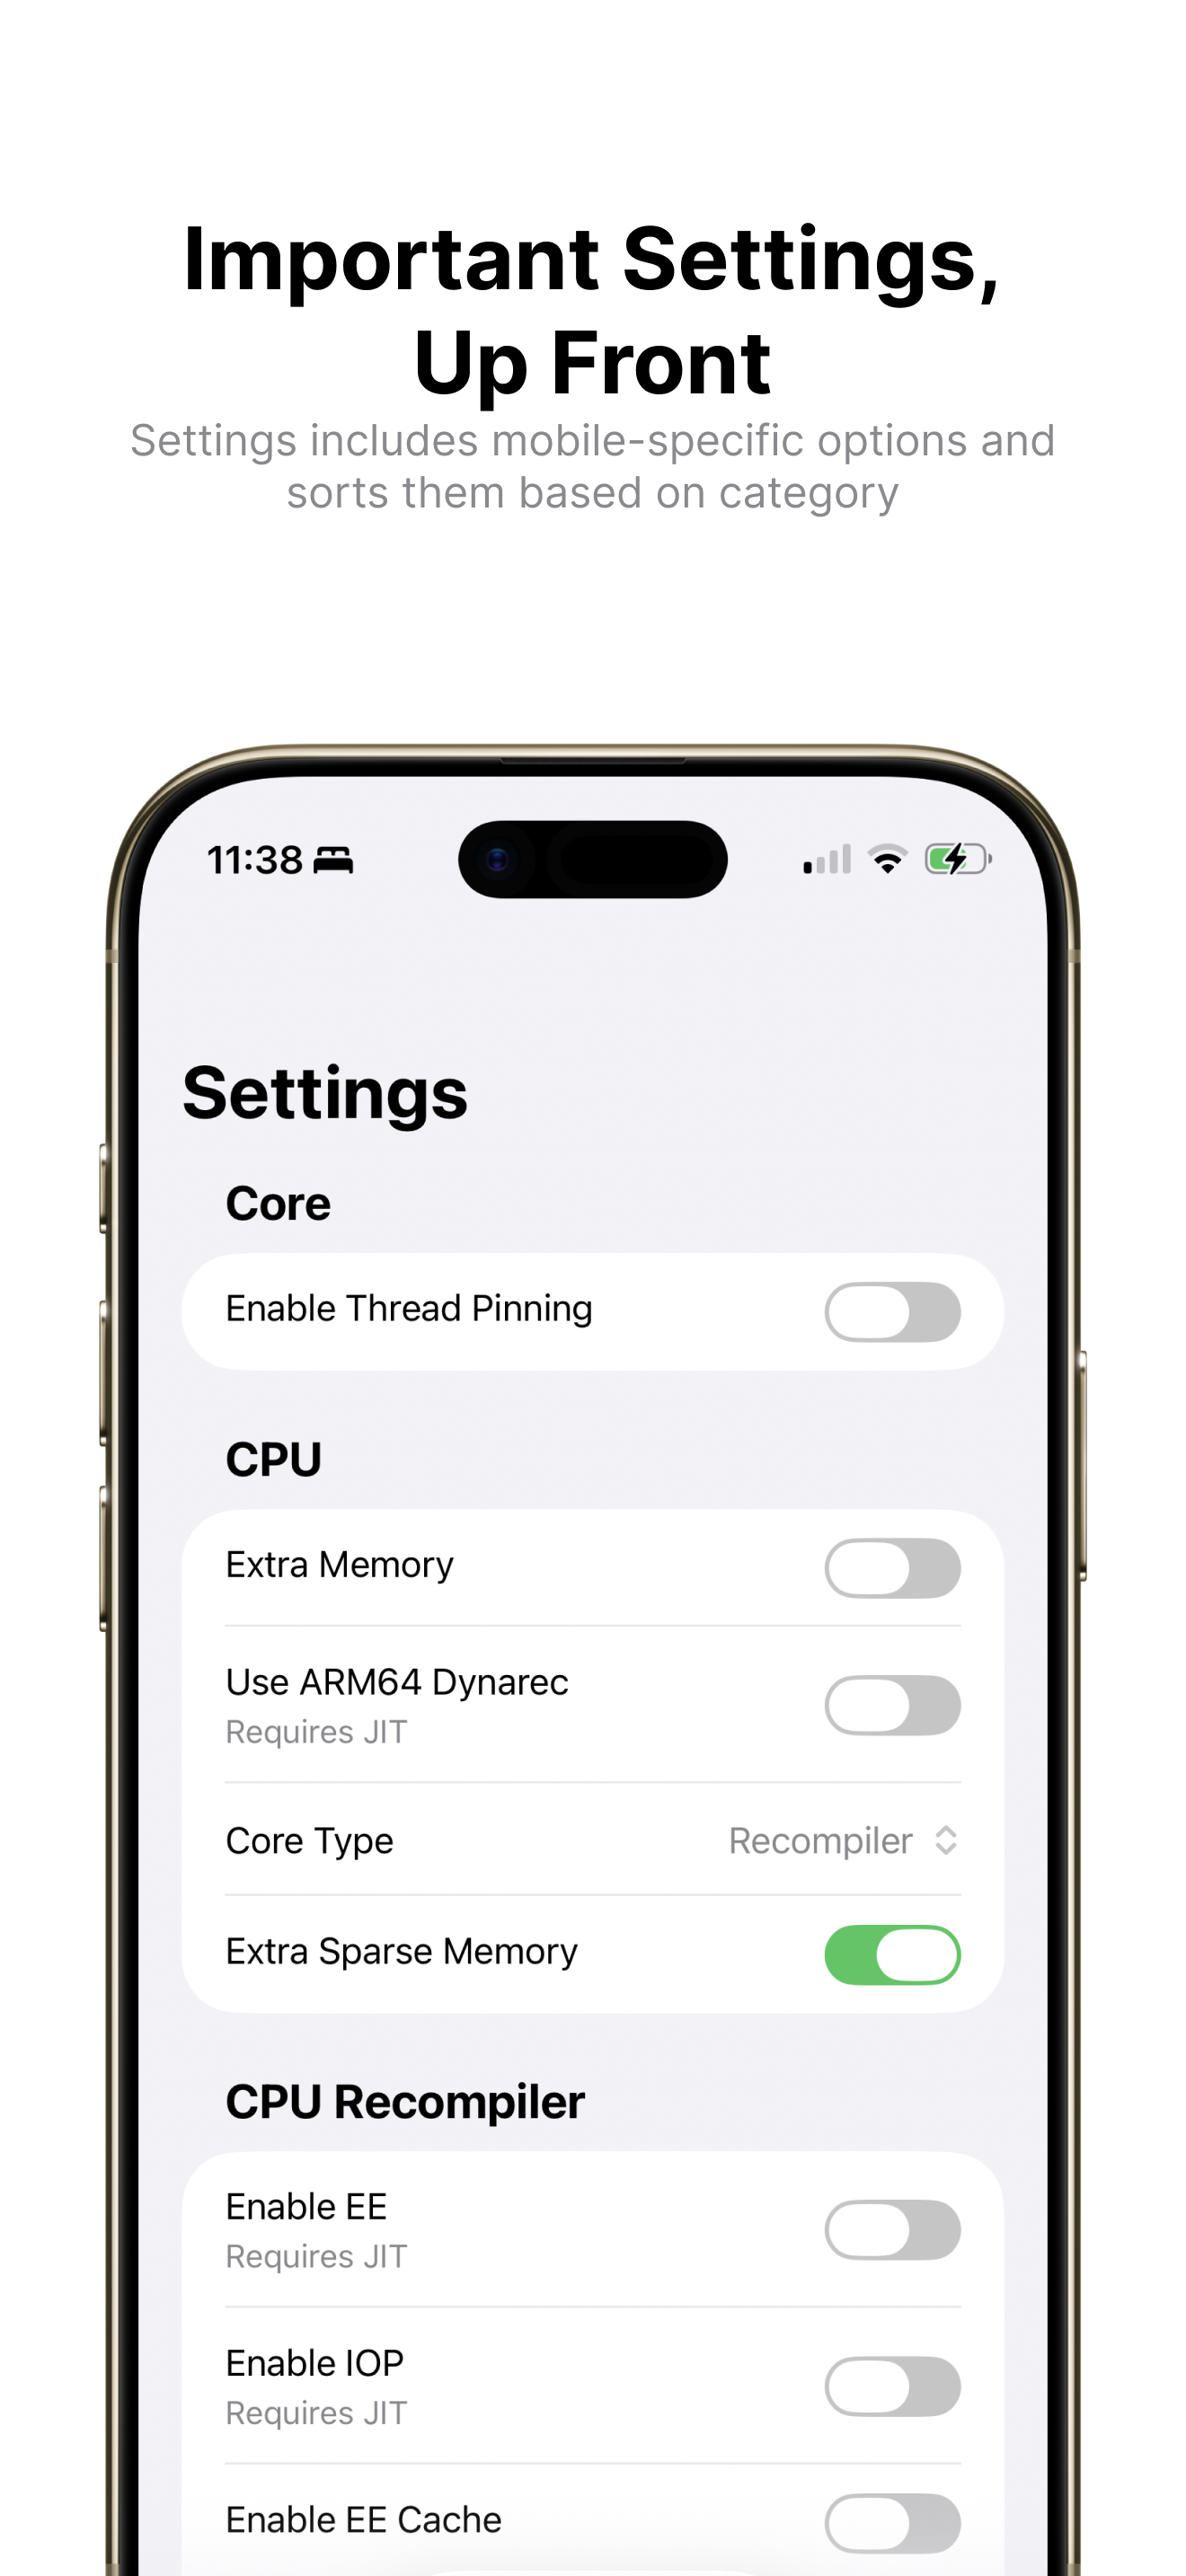
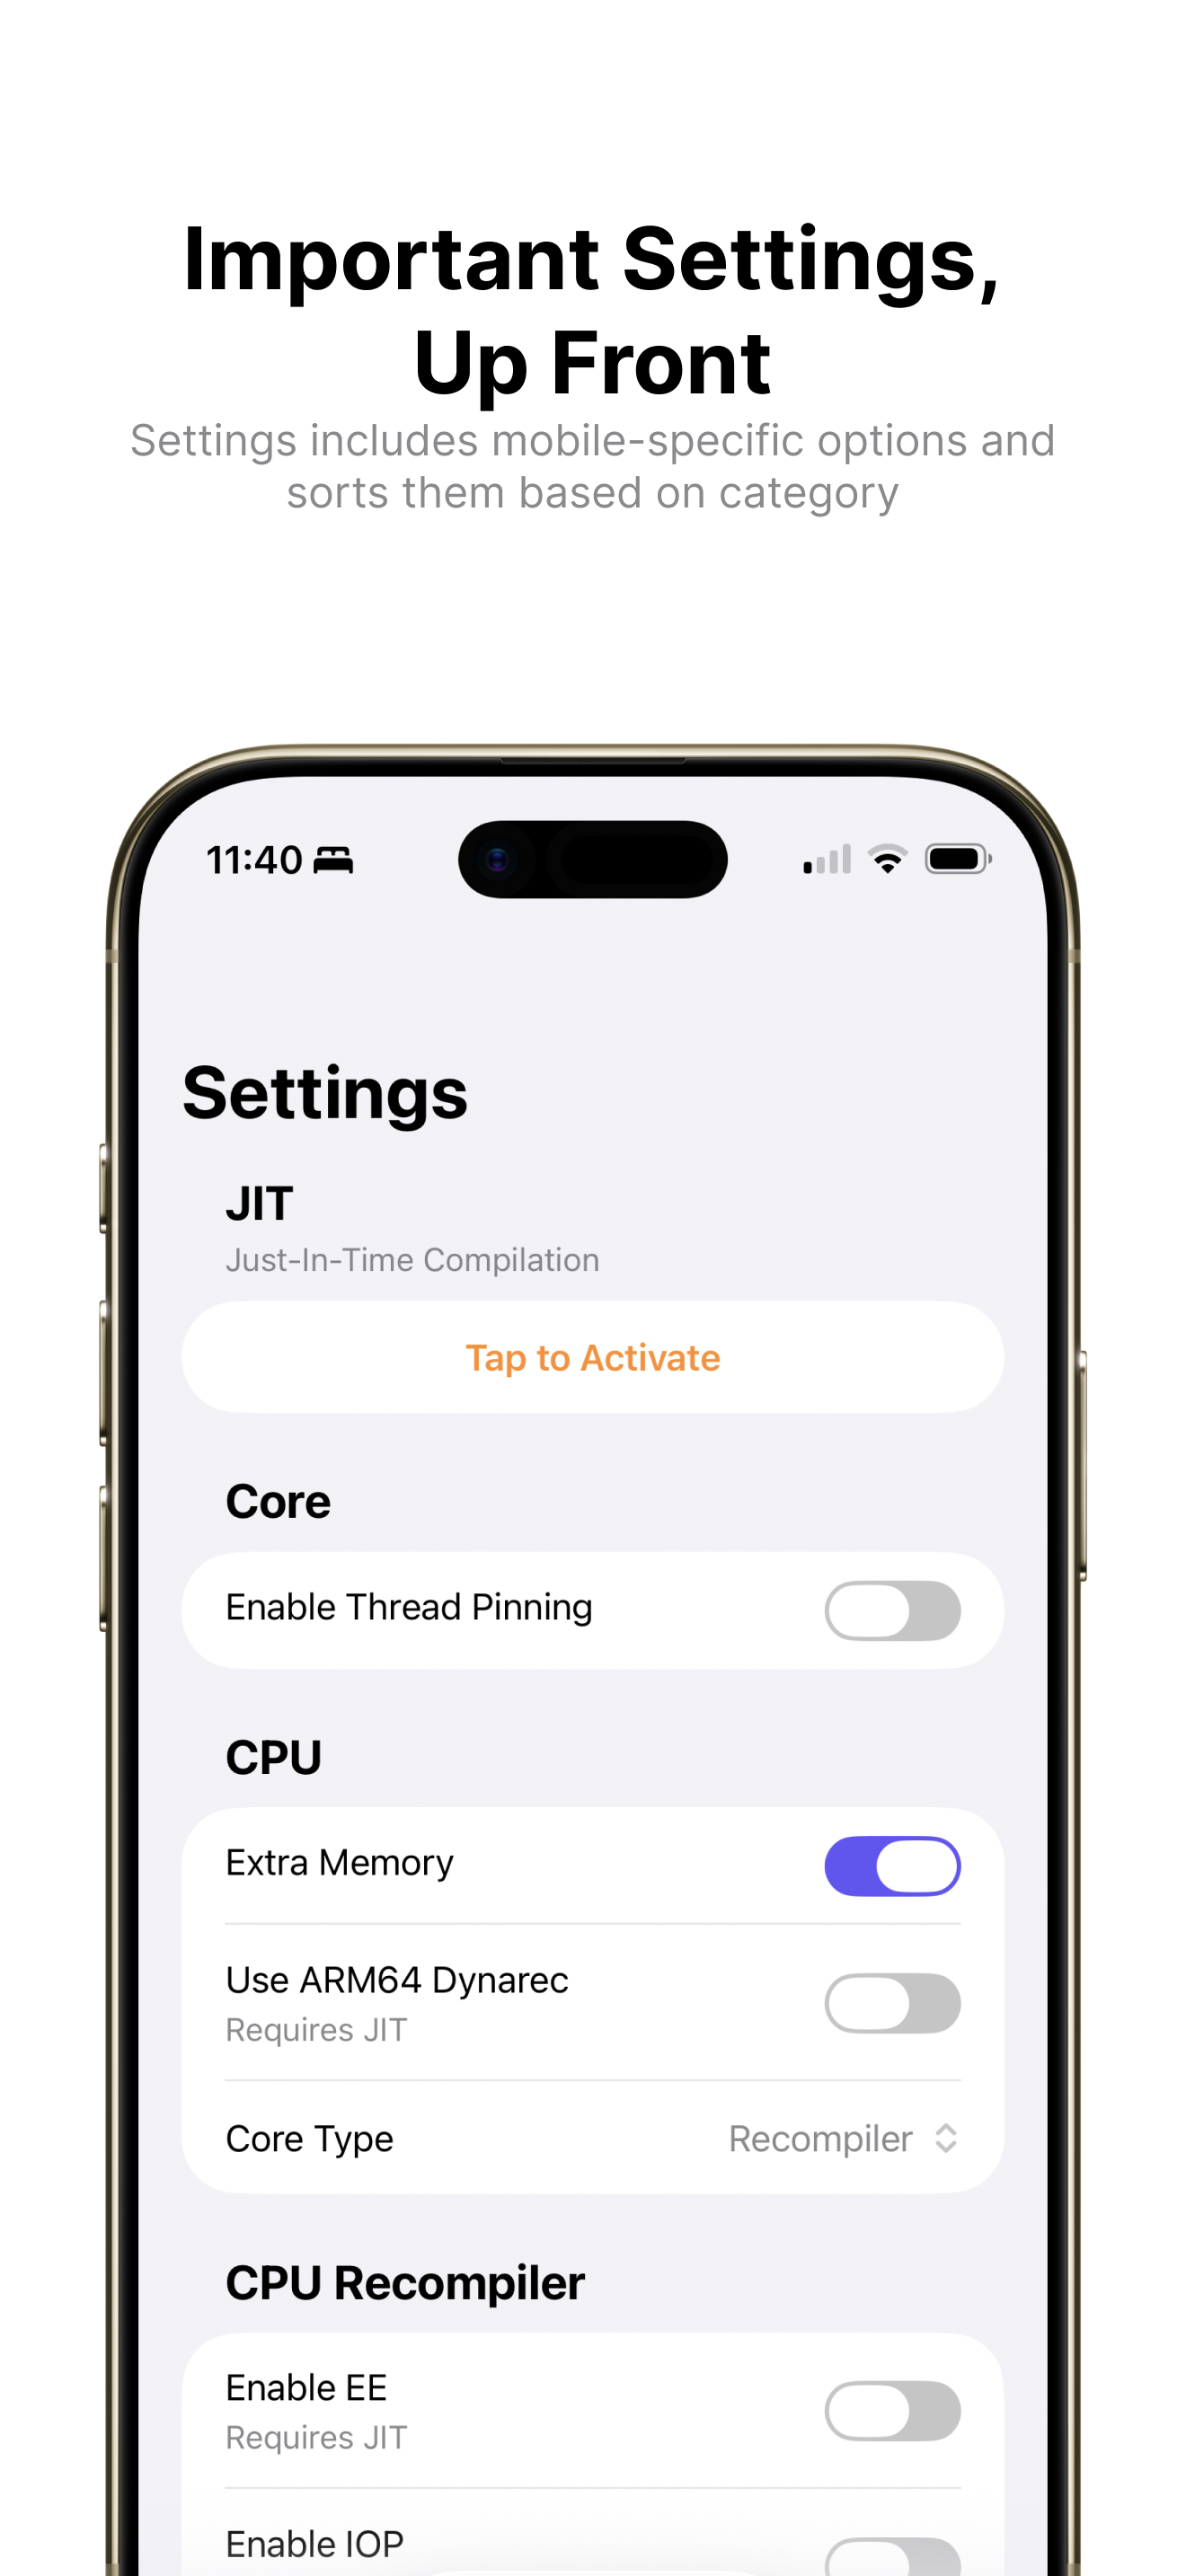
Updated screenshots and Alune page

diff --git a/src/Apps/Alune/Alune.tsx b/src/Apps/Alune/Alune.tsx
@@ -10,10 +10,12 @@ import {
     Paper,
     Space,
     Stack, Text, Title, Image,
-    Button
+    Button,
+    SimpleGrid,
+    Center
 } from '@mantine/core';
 import { useOs } from '@mantine/hooks';
-import { IconBrandGithub, IconBrandReddit, IconBrandTwitter, IconCheck, IconCode, IconMail } from '@tabler/icons-react';
+import { IconBrandGithub, IconBrandReddit, IconBrandTwitter, IconCheck, IconClock, IconCode, IconMail } from '@tabler/icons-react';
 import { Carousel } from '@mantine/carousel';
 
 export default function Alune() {
@@ -84,33 +86,60 @@ export default function Alune() {
                 <Space h={'xl'} />
                 <Space h={'xl'} />
 
-                <Stack align={'center'}>
-                    <AvatarGroup spacing={'lg'}>
-                        <Avatar color={'green'} radius={'xl'} size={'lg'}>
-                            <IconCheck />
-                        </Avatar>
-                    </AvatarGroup>
-                    <Title order={2}>
-                        Release Status
-                    </Title>
-                    <Text c={'dimmed'} ta={'center'}>
-                        Ready for Testing
-                    </Text>
+                <SimpleGrid cols={{ base: 1, md: 2 }} spacing={'xl'}>
+                    <Stack align={'center'}>
+                        <AvatarGroup spacing={'lg'}>
+                            <Avatar color={'green'} radius={'xl'} size={'lg'}>
+                                <IconCheck />
+                            </Avatar>
+                        </AvatarGroup>
+                        <Title order={2}>
+                            Release Status
+                        </Title>
+                        <Text c={'dimmed'} ta={'center'}>
+                            Ready for Testing
+                        </Text>
 
-                    <Space />
+                        <Space />
 
-                    <Group>
-                        <Button color={'indigo'} component={'a'} href={'https://github.com/alune-app/Releases/releases/download/1.0.1/Alune.ipa.zip'} radius={'xl'} target={'_blank'} variant={'light'}>
-                            Sideload
-                        </Button>
-                        <Button color={'blue'} component={'a'} href={'https://testflight.apple.com/join/jDZ4BM99'} radius={'xl'} target={'_blank'} variant={'light'}>
-                            TestFlight
-                        </Button>
-                        <Button color={'yellow'} component={'a'} href={''} radius={'xl'} target={'_blank'} variant={'light'} disabled>
-                            Changelog
-                        </Button>
-                    </Group>
-                </Stack>
+                        <Group>
+                            <Button color={'indigo'} component={'a'} href={'https://github.com/alune-app/Releases/releases/download/1.0.1/Alune-1.0.1.5.ipa.zip'} radius={'xl'} target={'_blank'} variant={'light'}>
+                                Sideload
+                            </Button>
+                        </Group>
+                    </Stack>
+
+                    <Stack align={'center'}>
+                        <AvatarGroup spacing={'lg'}>
+                            <Avatar color={'orange'} radius={'xl'} size={'lg'}>
+                                <IconClock />
+                            </Avatar>
+                        </AvatarGroup>
+                        <Title order={2}>
+                            Release Status
+                        </Title>
+                        <Text c={'dimmed'} ta={'center'}>
+                            Waiting for Release
+                        </Text>
+
+                        <Space />
+
+                        <Group>
+                            <Button color={'blue'} component={'a'} href={'https://testflight.apple.com/join/jDZ4BM99'} radius={'xl'} target={'_blank'} variant={'light'}>
+                                TestFlight
+                            </Button>
+                        </Group>
+                    </Stack>
+                </SimpleGrid>
+
+                <Space h={'xl'} />
+                <Space h={'xl'} />
+
+                <Center>
+                    <Button color={'yellow'} component={'a'} href={'https://www.icloud.com/notes/07aKLAgo5Uvxxd81PRmriLUag'} radius={'xl'} target={'_blank'} variant={'light'}>
+                        Changelog
+                    </Button>
+                </Center>
 
                 <Space h={'xl'} />
                 <Space h={'xl'} />